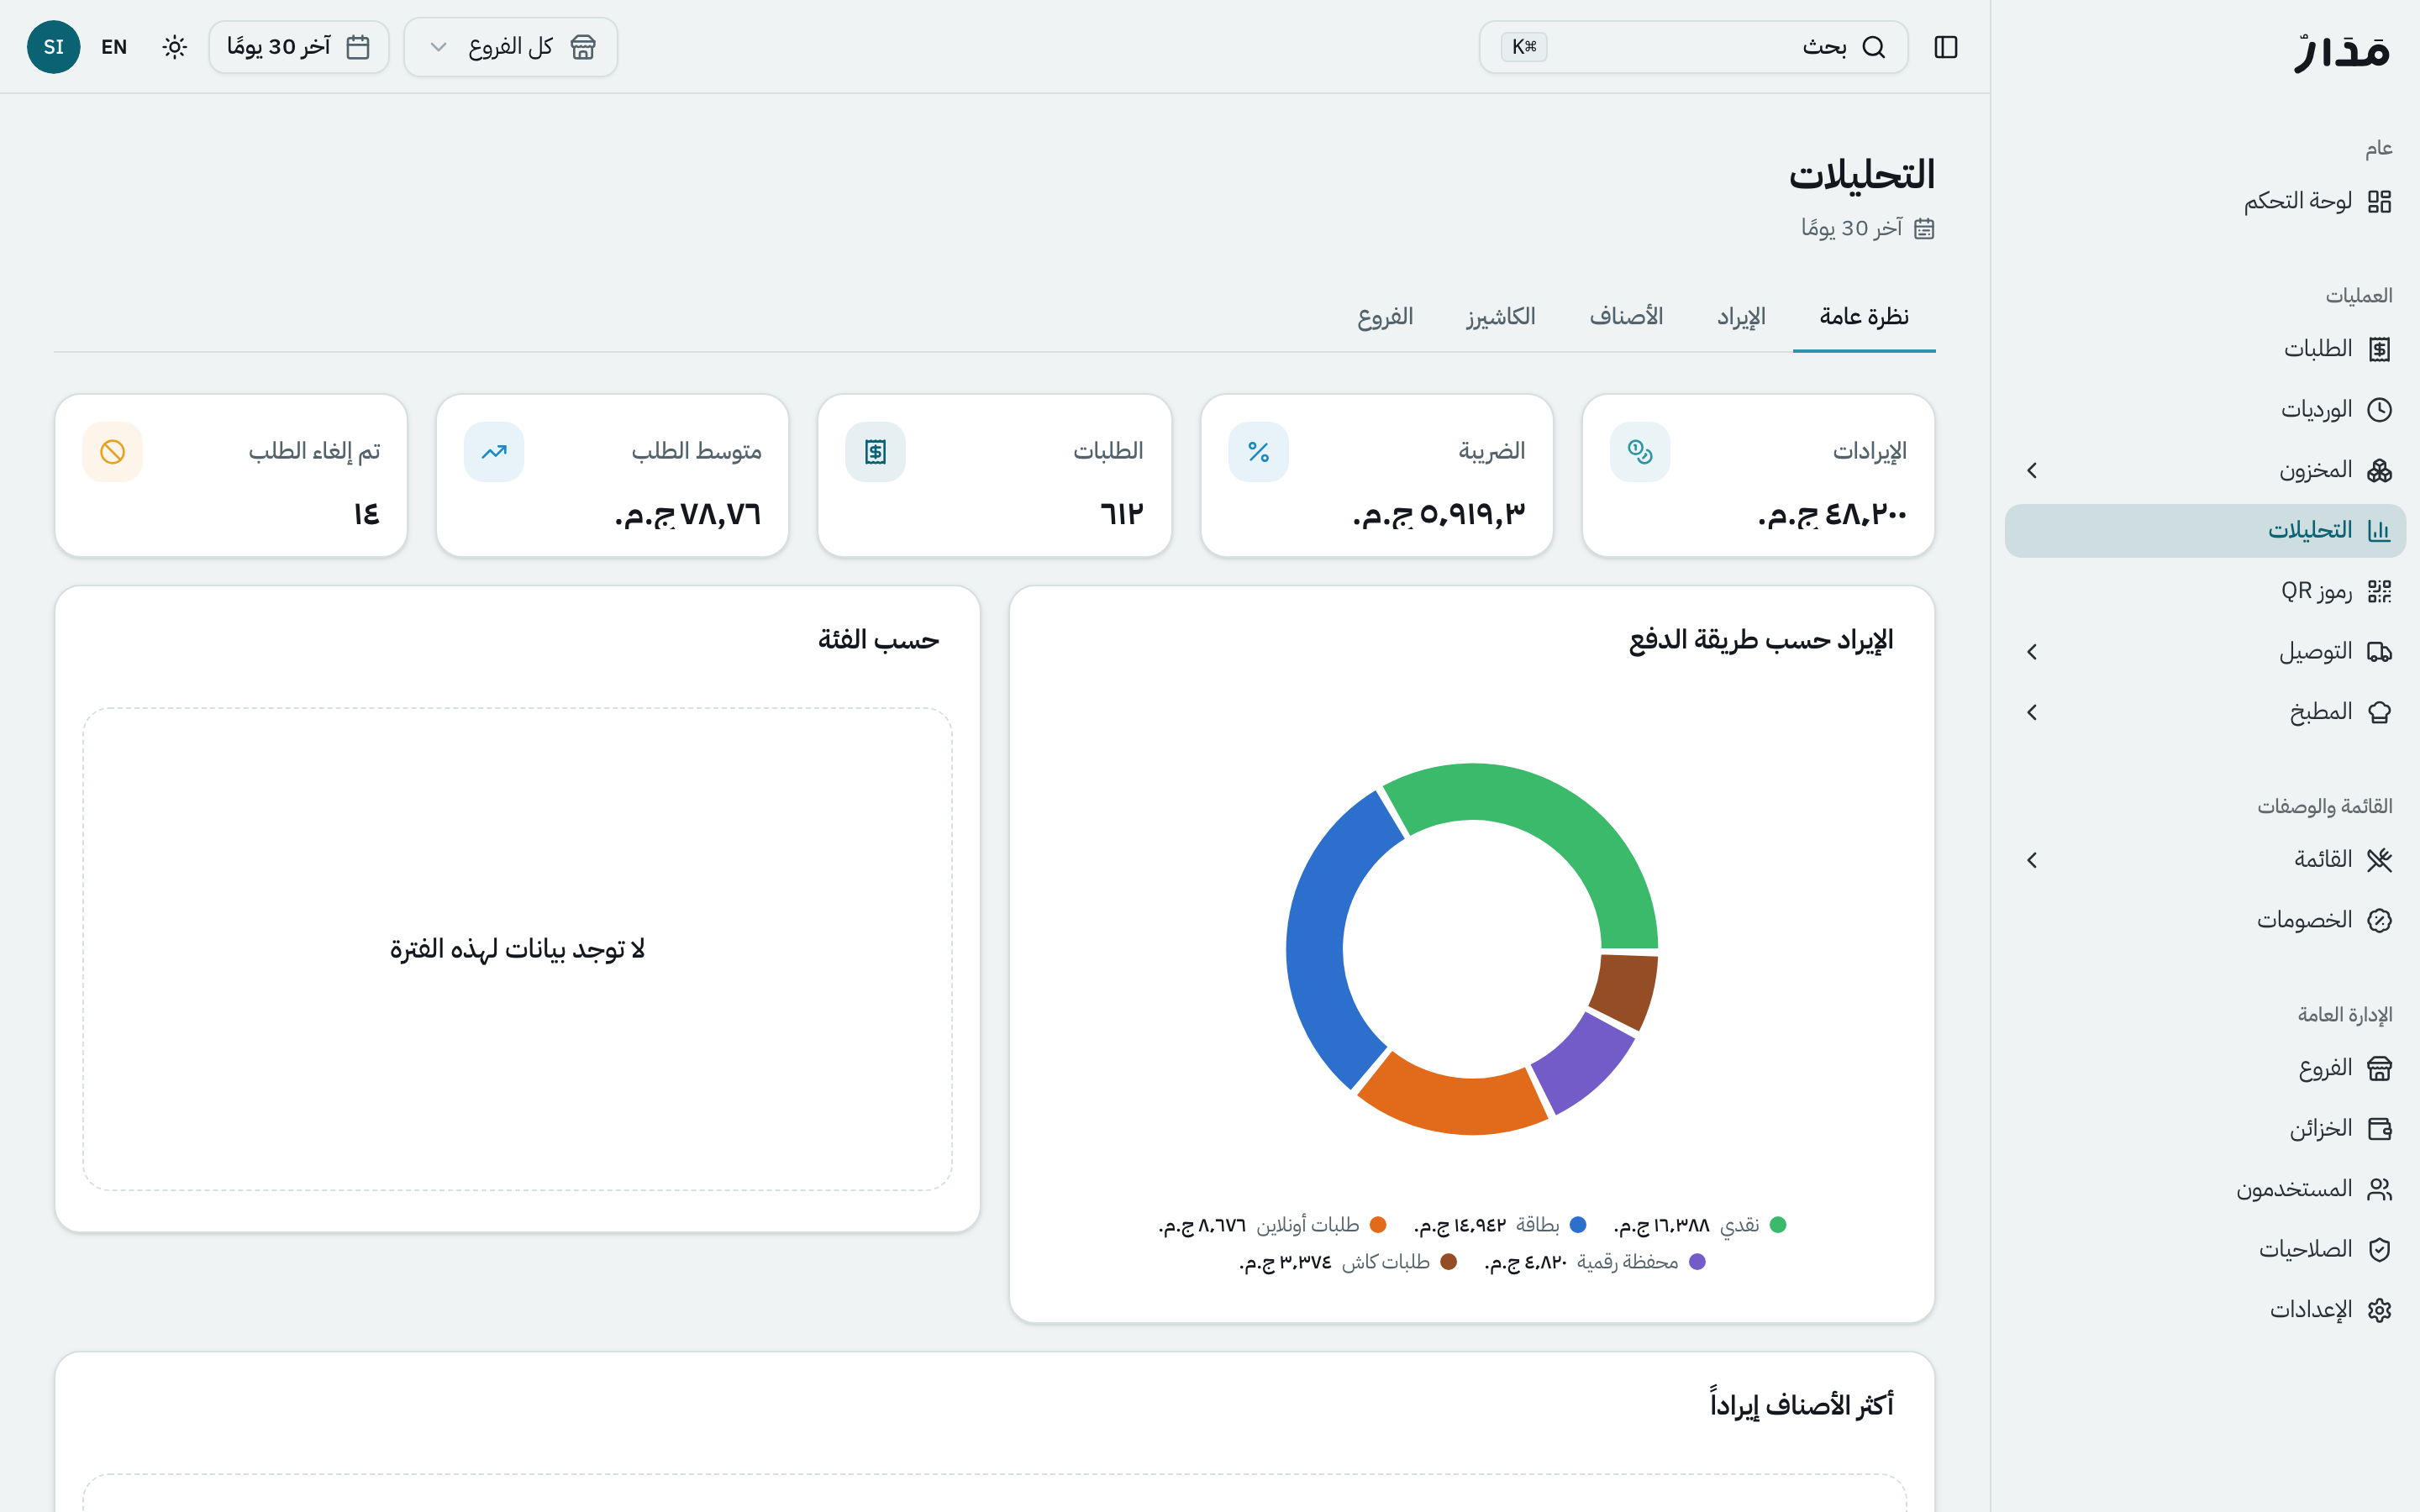
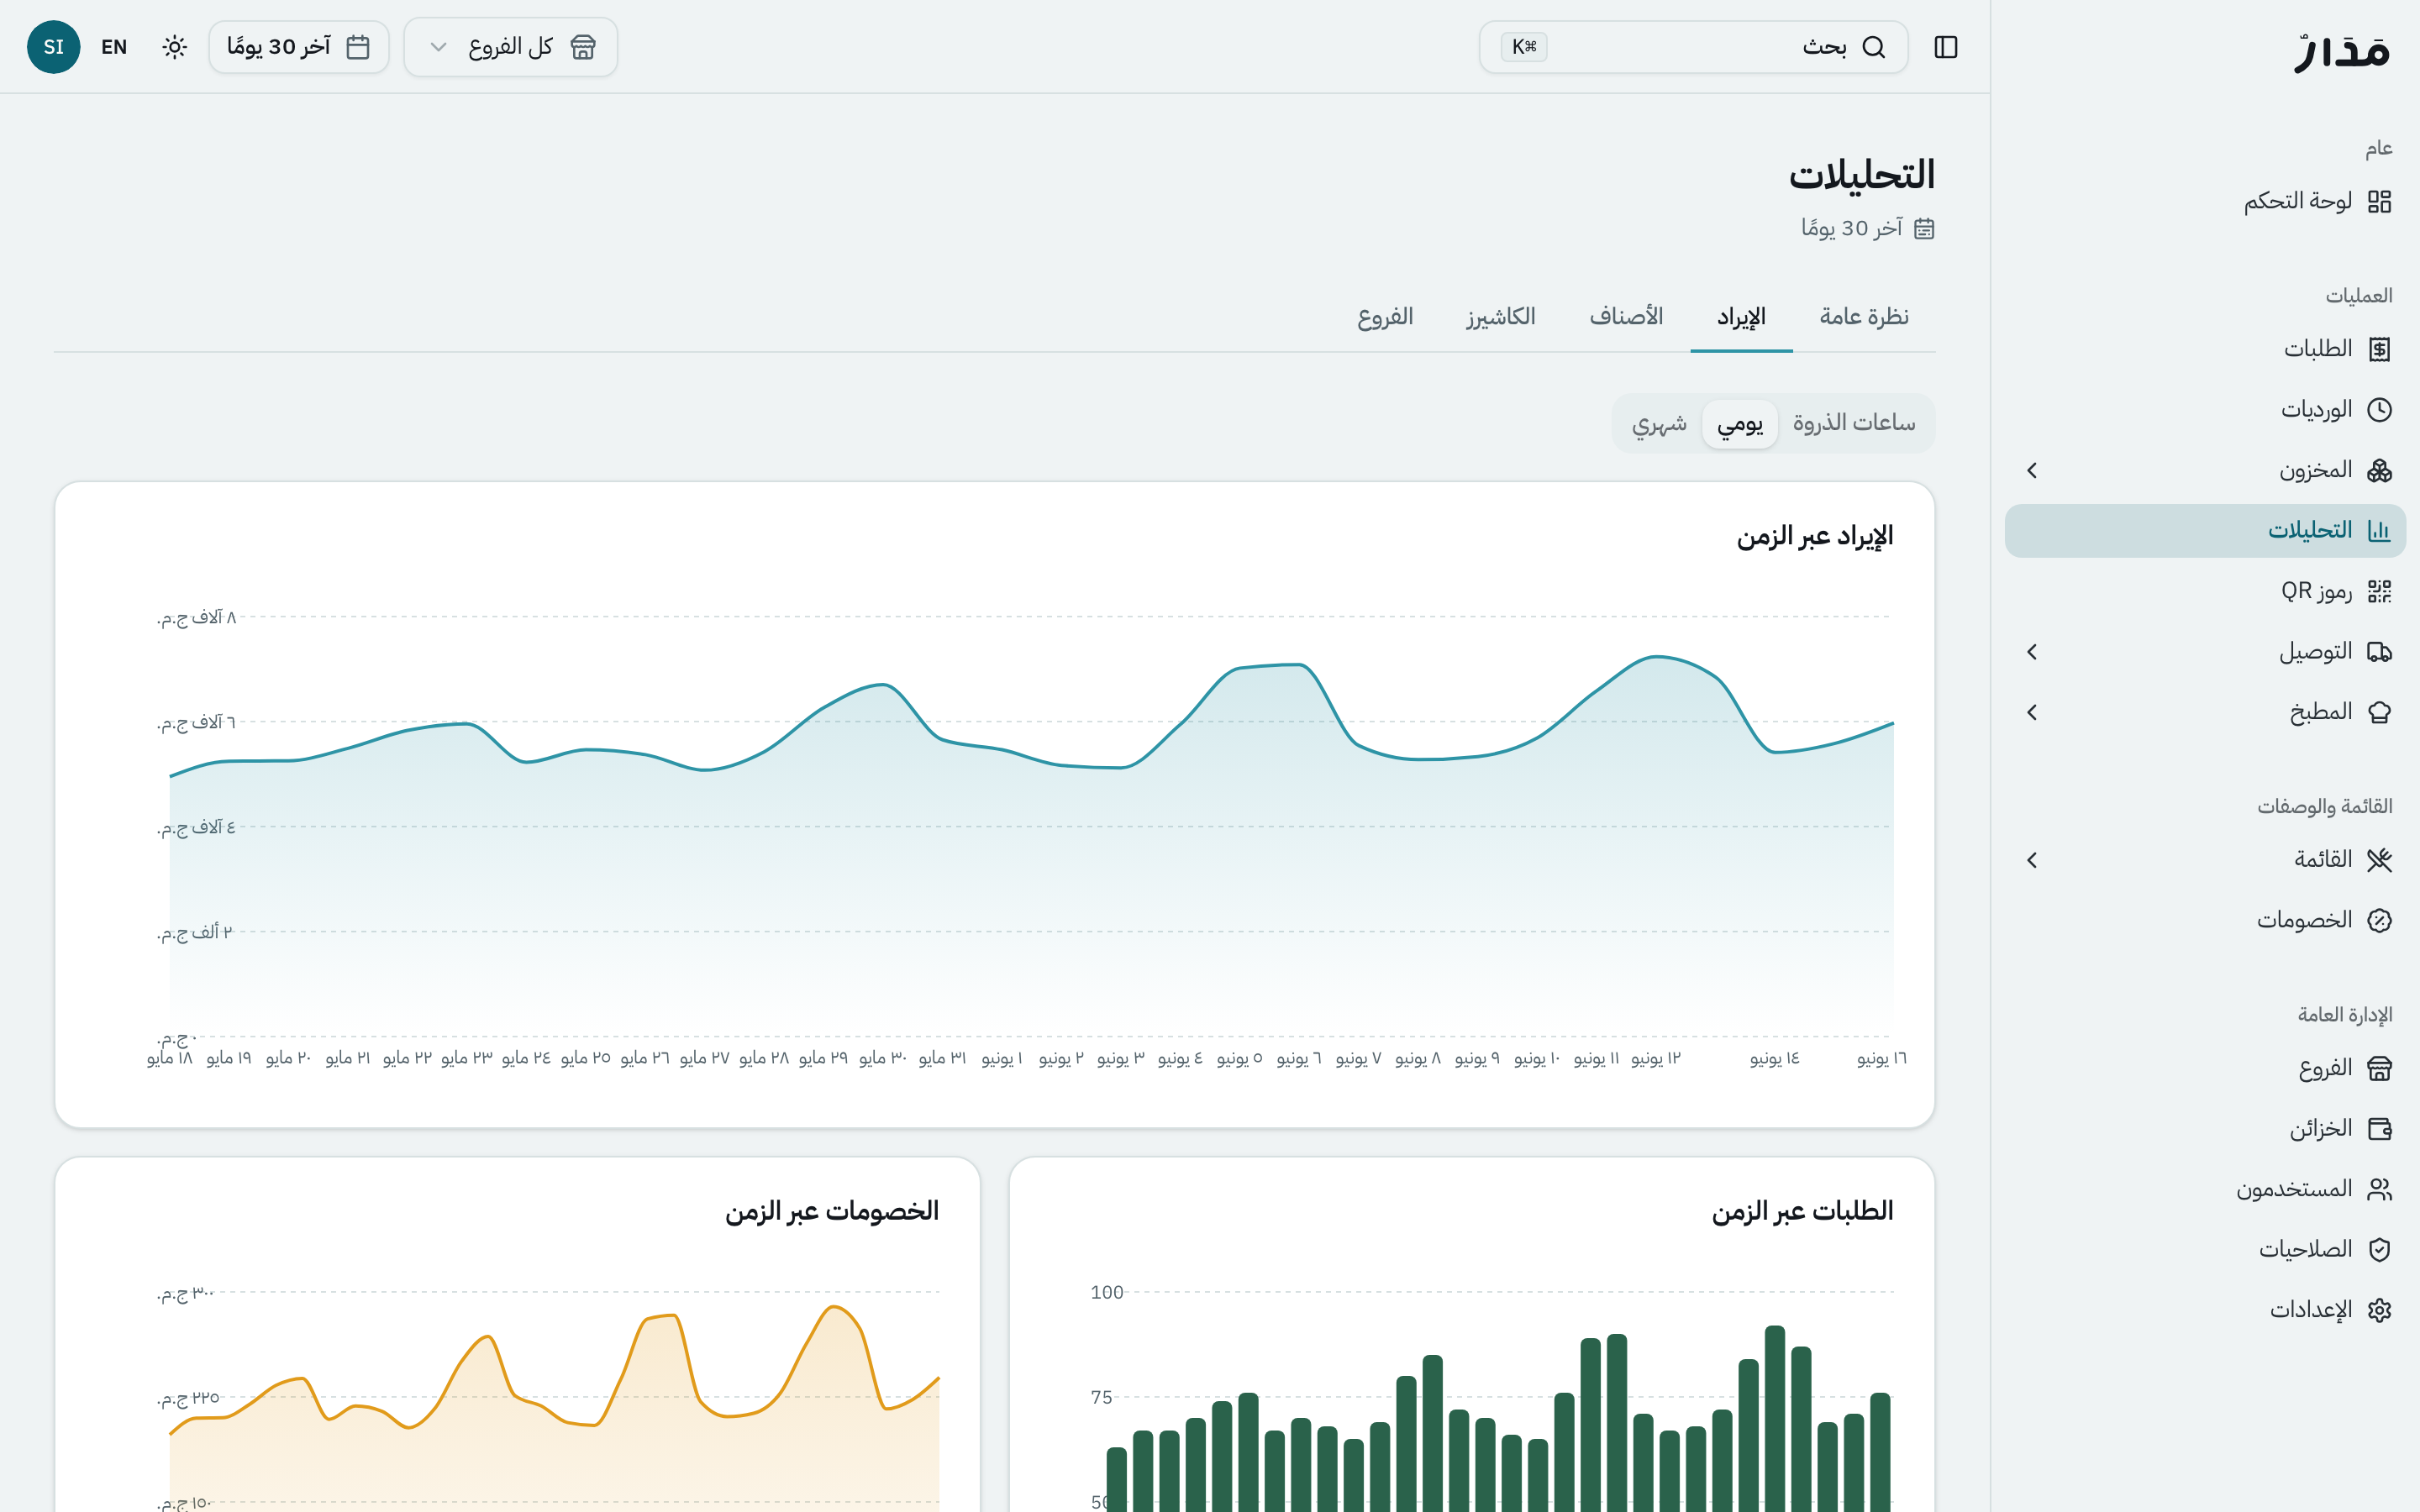
feat(landing): SEO (meta/OG/JSON-LD/sitemap) + richer screenshot data
SEO (get.madar-pos.cloud):
- get.html: title/description, canonical, robots, Open Graph + Twitter cards,
  JSON-LD (Organization + SoftwareApplication with contact + socials).
- public/robots.txt + public/sitemap.xml; a 1200x630 public/og.png share card.
- Noindex the dashboard app shell (index.html) so the marketing site is the
  indexable surface.

Screenshots — seed the MSW with intentional data so each shot is full:
- Recipes: real ingredient lines + computed cost & margin (Latte → EGP 14.22, 76%).
- Branch sales report: top_items + by_category populated.
- Analytics screenshot now captures the Revenue tab (charts over time), not Overview.

diff --git a/get.html b/get.html
@@ -4,11 +4,79 @@
 <head>
   <meta charset="UTF-8" />
   <link rel="icon" type="image/svg+xml" href="/Icon.svg" />
+  <link rel="apple-touch-icon" href="/apple-touch-icon.png" />
   <meta name="viewport" content="width=device-width, initial-scale=1.0, viewport-fit=cover" />
   <meta name="theme-color" content="#0A2540" />
+
+  <!-- Primary SEO -->
+  <title>Madar — Coffee Shop POS, Costing &amp; Analytics</title>
   <meta name="description"
-    content="Madar — run your coffee shop end to end. Point of sale, recipe costing, inventory, shifts, delivery and analytics in one bilingual platform." />
-  <title>Madar — Run your coffee shop, end to end</title>
+    content="Madar is a bilingual platform to run your coffee shop end to end — point of sale, recipe costing, inventory, shifts, delivery and analytics. Online or off, in Arabic or English." />
+  <meta name="keywords"
+    content="coffee shop POS, café management, point of sale Egypt, recipe costing, inventory, shift management, restaurant analytics, bilingual POS, Arabic POS, نقطة بيع, إدارة المقاهي" />
+  <meta name="author" content="Madar" />
+  <meta name="robots" content="index, follow, max-image-preview:large, max-snippet:-1" />
+  <link rel="canonical" href="https://get.madar-pos.cloud/" />
+
+  <!-- Open Graph -->
+  <meta property="og:type" content="website" />
+  <meta property="og:site_name" content="Madar" />
+  <meta property="og:title" content="Madar — Run your coffee shop, end to end" />
+  <meta property="og:description"
+    content="Point of sale, recipe costing, inventory, shifts, delivery and analytics — one bilingual platform that ties what you sell to what it costs." />
+  <meta property="og:url" content="https://get.madar-pos.cloud/" />
+  <meta property="og:image" content="https://get.madar-pos.cloud/og.png" />
+  <meta property="og:image:width" content="1200" />
+  <meta property="og:image:height" content="630" />
+  <meta property="og:image:alt" content="The Madar dashboard — bilingual coffee-shop management." />
+  <meta property="og:locale" content="en_US" />
+  <meta property="og:locale:alternate" content="ar_EG" />
+
+  <!-- Twitter -->
+  <meta name="twitter:card" content="summary_large_image" />
+  <meta name="twitter:title" content="Madar — Run your coffee shop, end to end" />
+  <meta name="twitter:description"
+    content="Point of sale, recipe costing, inventory, shifts, delivery and analytics — one bilingual platform, online or off." />
+  <meta name="twitter:image" content="https://get.madar-pos.cloud/og.png" />
+
+  <!-- Structured data -->
+  <script type="application/ld+json">
+  {
+    "@context": "https://schema.org",
+    "@graph": [
+      {
+        "@type": "Organization",
+        "@id": "https://get.madar-pos.cloud/#org",
+        "name": "Madar",
+        "url": "https://get.madar-pos.cloud/",
+        "logo": "https://get.madar-pos.cloud/madar.svg",
+        "description": "A bilingual platform to run a coffee shop end to end — POS, recipe costing, inventory, shifts, delivery and analytics.",
+        "contactPoint": {
+          "@type": "ContactPoint",
+          "telephone": "[phone redacted]",
+          "email": "[email redacted]",
+          "contactType": "sales",
+          "areaServed": "EG",
+          "availableLanguage": ["en", "ar"]
+        },
+        "sameAs": [
+          "https://www.instagram.com/madar.cloud/",
+          "https://www.facebook.com/profile.php?id=61591636403380"
+        ]
+      },
+      {
+        "@type": "SoftwareApplication",
+        "name": "Madar",
+        "applicationCategory": "BusinessApplication",
+        "operatingSystem": "Web, iOS, macOS",
+        "url": "https://get.madar-pos.cloud/",
+        "description": "Point of sale, recipe costing, inventory, shifts, delivery and analytics for cafés and quick-service — bilingual (English/Arabic), offline-first.",
+        "inLanguage": ["en", "ar"],
+        "publisher": { "@id": "https://get.madar-pos.cloud/#org" }
+      }
+    ]
+  }
+  </script>
 </head>
 
 <body class="bg-background text-foreground antialiased">

diff --git a/src/data/api/mock/data.ts b/src/data/api/mock/data.ts
@@ -149,6 +149,35 @@ export const MOCK_PEAK_HOURS: PeakHourPoint[] = _ph_raw.map((r, hour) => ({
   orders_pct: _ph_total_ord > 0 ? Math.round(r.orders / _ph_total_ord * 1000) / 10 : 0,
 }));
 
+// Top sellers + sales-by-category for the analytics overview tab + leaderboards.
+const TOP_ITEMS = [
+  { menu_item_id: "mi_latte", item_name: "Latte", item_name_translations: { ar: "لاتيه" }, quantity_sold: 142, revenue: 852_000 },
+  { menu_item_id: "mi_frappuccino", item_name: "Frappuccino", item_name_translations: { ar: "فرابيتشينو" }, quantity_sold: 67, revenue: 569_500 },
+  { menu_item_id: "mi_cheesecake", item_name: "Cheesecake", item_name_translations: { ar: "تشيز كيك" }, quantity_sold: 62, revenue: 558_000 },
+  { menu_item_id: "mi_cappuccino", item_name: "Cappuccino", item_name_translations: { ar: "كابوتشينو" }, quantity_sold: 98, revenue: 539_000 },
+  { menu_item_id: "mi_americano", item_name: "Americano", item_name_translations: { ar: "أمريكانو" }, quantity_sold: 89, revenue: 400_500 },
+  { menu_item_id: "mi_flatwhite", item_name: "Flat White", item_name_translations: { ar: "فلات وايت" }, quantity_sold: 54, revenue: 351_000 },
+  { menu_item_id: "mi_matcha", item_name: "Matcha Latte", item_name_translations: { ar: "ماتشا لاتيه" }, quantity_sold: 34, revenue: 255_000 },
+];
+
+const CATEGORY_SALES = [
+  {
+    category_id: "cat_hot", category_name: "Hot Drinks", category_name_translations: { ar: "مشروبات ساخنة" },
+    item_count: 6, quantity_sold: 487, revenue: 3_182_500,
+    items: TOP_ITEMS.filter((i) => ["mi_latte", "mi_cappuccino", "mi_americano", "mi_flatwhite", "mi_matcha"].includes(i.menu_item_id)),
+  },
+  {
+    category_id: "cat_cold", category_name: "Cold Drinks", category_name_translations: { ar: "مشروبات باردة" },
+    item_count: 4, quantity_sold: 198, revenue: 1_079_500,
+    items: TOP_ITEMS.filter((i) => i.menu_item_id === "mi_frappuccino"),
+  },
+  {
+    category_id: "cat_food", category_name: "Food", category_name_translations: { ar: "أكل" },
+    item_count: 2, quantity_sold: 98, revenue: 558_000,
+    items: TOP_ITEMS.filter((i) => i.menu_item_id === "mi_cheesecake"),
+  },
+];
+
 /** Single-branch report (used when a branch is selected in the scope bar). */
 export const MOCK_BRANCH_SALES: BranchSalesReport = {
   branch_id: "br_zamalek",
@@ -160,8 +189,8 @@ export const MOCK_BRANCH_SALES: BranchSalesReport = {
   total_tax: 591_930,
   total_discount: 192_800,
   revenue_by_method: methodSplit(4_820_000),
-  by_category: [],
-  top_items: [],
+  by_category: CATEGORY_SALES,
+  top_items: TOP_ITEMS,
   from: "2026-05-18",
   to: "2026-06-16",
 };

diff --git a/src/data/api/mock/handlers.ts b/src/data/api/mock/handlers.ts
@@ -223,7 +223,10 @@ export const handlers = [
       image_url: null,
       is_active: true,
       sizes: [{ label: "Single", price_override: 3500 }, { label: "Double", price_override: 5000 }],
-      recipes: [],
+      recipes: [
+        { size_label: "Single", org_ingredient_id: "ing_coffee", ingredient_name: "Espresso Beans", ingredient_unit: "kg", quantity_used: 0.018 },
+        { size_label: "Double", org_ingredient_id: "ing_coffee", ingredient_name: "Espresso Beans", ingredient_unit: "kg", quantity_used: 0.036 },
+      ],
       sku_costs: [],
     }),
   ),
@@ -240,7 +243,14 @@ export const handlers = [
       image_url: null,
       is_active: true,
       sizes: [{ label: "Regular", price_override: 6000 }, { label: "Large", price_override: 7500 }],
-      recipes: [],
+      recipes: [
+        { size_label: "Regular", org_ingredient_id: "ing_coffee", ingredient_name: "Espresso Beans", ingredient_unit: "kg", quantity_used: 0.018 },
+        { size_label: "Regular", org_ingredient_id: "ing_milk", ingredient_name: "Whole Milk", ingredient_unit: "liter", quantity_used: 0.24 },
+        { size_label: "Regular", org_ingredient_id: "ing_vanilla", ingredient_name: "Vanilla Syrup", ingredient_unit: "liter", quantity_used: 0.015 },
+        { size_label: "Large", org_ingredient_id: "ing_coffee", ingredient_name: "Espresso Beans", ingredient_unit: "kg", quantity_used: 0.024 },
+        { size_label: "Large", org_ingredient_id: "ing_milk", ingredient_name: "Whole Milk", ingredient_unit: "liter", quantity_used: 0.32 },
+        { size_label: "Large", org_ingredient_id: "ing_vanilla", ingredient_name: "Vanilla Syrup", ingredient_unit: "liter", quantity_used: 0.02 },
+      ],
       sku_costs: [],
     }),
   ),
@@ -259,7 +269,10 @@ export const handlers = [
       image_url: null,
       is_active: true,
       sizes: [{ label: "Regular", price_override: 5000 }],
-      recipes: [],
+      recipes: [
+        { size_label: "Regular", org_ingredient_id: "ing_coffee", ingredient_name: "Espresso Beans", ingredient_unit: "kg", quantity_used: 0.016 },
+        { size_label: "Regular", org_ingredient_id: "ing_milk", ingredient_name: "Whole Milk", ingredient_unit: "liter", quantity_used: 0.2 },
+      ],
       sku_costs: [],
     }),
   ),

diff --git a/index.html b/index.html
@@ -7,6 +7,9 @@
   <meta name="viewport"
     content="width=device-width, initial-scale=1.0, maximum-scale=1.0, user-scalable=no, viewport-fit=cover" />
   <meta name="theme-color" content="#0A2540" />
+  <!-- Private management app — keep the login shell out of search; the public
+       marketing site at get.madar-pos.cloud is the indexable surface. -->
+  <meta name="robots" content="noindex, nofollow" />
   <title>Madar</title>
 </head>
 